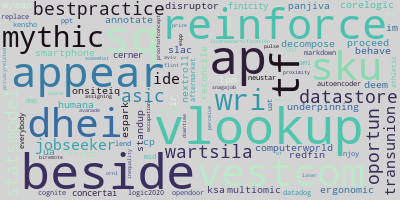
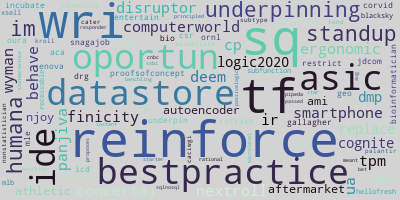
finished parsing monograms down to mdg

diff --git a/nlp_main.py b/nlp_main.py
@@ -233,7 +233,12 @@ def clean_for_nlp(series_of_interest):
     
     # convert parsed series to a list
     text = ''.join(str(series_of_interest.tolist()))
-
+    
+    # normalize, split and lowercase the parsed text
+    print('Normalizing, splitting and lowercasing...')
+    text = (unicodedata.normalize('NFKD', text).encode('ascii', 'ignore').decode('utf-8', 'ignore').lower())
+    words = re.sub(r'[^\w\s]', '', text).split()
+    
     # add additional stopwords to nltk default stopword list
     additional_stopwords = sorted(list(set(['14042', '3rd', '401k', '50', '500', 'a16z', 'able', 'accepted',
                                             'access', 'accommodation', 'accomodation', 'account', 'across',
@@ -1158,24 +1163,47 @@ def clean_for_nlp(series_of_interest):
                                             'configurable', 'irca', 'boomi', 'multiomics', 'decisiveness', 'microbial', 'flawless',
                                             'figuring', 'cabinet', 'spatiotemporal', 'essence', 'opentext', 'gay', '33',
                                             'microbiology', 'flair', 'simpler', 'dependability', 'autodesk', 'hm', 'occurred',
-                                            'httpssfgovorgolsesitesdefaultfilesfco20poster2020pdf', 'automaker', 'macos']))) + ds_skills_combined
+                                            'httpssfgovorgolsesitesdefaultfilesfco20poster2020pdf', 'automaker', 'macos',
+                                            'charles', '52', 'bandwidth', 'quote', 'struggle', 'starter', 'aug', 'accompanying',
+                                            'wyman', 'kroll', 'characterizing', 'entertain', 'unvaccinated', 'principled', 'bet',
+                                            'pipeda', 'upholding', 'humana', 'cnbc', 'domino', 'clinically', 'passed', 'preventive',
+                                            'apex', 'stateprovince', 'procter', 'eleven', 'projectstasks', 'genius', 'macrolevel',
+                                            'diplomaged', 'creatingrunning', 'productionalized', '13000000', 'purposebuilt', 'tb',
+                                            'crains', 'httpswwwspgbenefitessentialscomnewhires', 'aftermarket', '2002',
+                                            'elimination', 'itar', '1961', 'technologyfocused', 'munich', '80000', 'releasing',
+                                            'meant', 'reform', 'instant', 'rational', 'reflecting', 'grew', 'paul', 'responder',
+                                            'hustle', 'statisticallyminded', 'ibmwhat', 'productsservices', 'vr', 'westlake',
+                                            'deployable', 'nbcuniversals', 'athome', 'tlf', 'diligent', 'unavailable',
+                                            'businessolver', 'bio', 'av', 'proposes', 'played', 'postdegree', 'autoscaling',
+                                            'ordering', 'asic', 'logic2020', 'conveniently', 'compromising', 'hyderabad',
+                                            'httpwd5myworkdaycomryderdtask14223htmld', 'iaa', 'snagajob', 'nonstatisticians',
+                                            'disco', 'higherlevel', 'rsus', 'menu', 'mle', 'integrationcontinuous', 'tenant',
+                                            'tend', 'policymakers', 'wastewater', 'assessed', 'sankyo', 'jean', 'authoritative',
+                                            'crossdepartmental', 'garage', 'slow', 'reflective', 'yearround', 'safetysensitive',
+                                            'varsity', 'icertis', 'camp', 'objectively', 'impairment', 'injection', 'ob', 
+                                            'domicile', 'gapp', 'iq', 'detailing', 'cmc', 'ccar', 'preventative', 'nordisk',
+                                            'settlement', 'mx', 'bird', 'advertisement', 'tf', 'eurofins', 'whichever', '263892',
+                                            'coppa', 'amyris', 'labcorp', 'justification', 'virology', 'sisense', 'nextroll',
+                                            'njoy', 'educationtraining', 'cref', 'experiential', 'oltp', 'menlo', 'reaction',
+                                            'organizationally', 'gradeslevels', 'protectionrelated', 'caching', 'mentored',
+                                            '75year', 'geo', 'oura', 'eeocompliancespglobalcom', 'forrester', 'arrow', 'accrual',
+                                            'multilevel', 'gb', 'secrecy', 'drg', 'eighty', 'differentiator', 'acquires', 'avp',
+                                            'ipsos', 'daunting', 'republic', 'carfax', 'outpatient', 'highspeed', 'xsell',
+                                            '74000', 'lowest', 'cashierless', 'highscale', 'finicity', 'retrain', 'mdg', 
+                                            'stewarding', 'cism', 'lsi', 'blacksky', '131', 'kelly', 'reset', 'george', 'autoimmune', 'hcpcs', 'reuters', 'neurodegenerative', 'coolest', 'salient', 'daiichi', 'employerveteransdisabled', 'lateral', 'hobby', 'shehe', 'wired', 'sigint', 'freeportmcmoran', 'sia', '13000', 'digest', 'alexis', 'sarah', 'attentiontodetail', 'achiever', 'fundbox', 'coupa', '707', 'versatility', 'aitecharch', 'bmo', 'bmw', 'bdm', 'ap', 'encountered', 'iat', 'computerelectrical', 'hrbp', 'aon', 'ministry', 'foundry', 'dea', 'marijuana', 'industrybased', 'optimus', 'digitalization', 'gastroenterology', '1year', 'recorded', 'shelf', 'rosslyn', 'graduatelevel', 'fieldbased', 'mississippi', 'thrill', 'weighing', 'bigtable', 'reusability', 'sabbatical', 'cat', 'dry', 'brooklyn', '110000', 'insured', 'elicitation', 'metrology', 'appropriateness', 'impromptu', 'recipe', 'rei', 'manulife', 'dcri', 'ironic', 'itatms', 'inaccuracy', 'directhire', 'steering', 'branded', 'pd', 'stride', 'acorn', 'valuedriven', 'modelsmethods', 'merrick', 'perkins', 'activision', 'kleiner', 'qgis', 'reconstruction', 'tredence', 'staple', 'gamble', 'abbvies', 'uniform', 'kaiser', 'accessory', 'imagining', 'immunization', 'aca', 'golden', 'switzerland', 'logically', 'replace', 'ledger', 'responded', 'qualifies', 'medidatas', 'stormsamza', '1b', 'ornl', 'acquirer', 'tpm', 'durham', 'evergrowing', 'businessoriented', 'bestpractices', 'shrinkage', 'avaya', 'interdepartmental', 'preeminent', 'messenger', 'wing', 'drilling', 'jackson', 'uas', 'learningdata', 'deciding', 'regarded', 'innovates', 'fbi', 'nd', 'ctos', 'gan', 'replicable', 'trackrecord', 'clery', 'quite', 'inscom', 'passenger', 'sla', 'symbol', 'reinforces', 'systemlevel', 'constructively', 'yesterday', 'rose', '1973', 'selfawareness', 'inferencing', 'okay', '24x7', 'conditioning', 'nexus', 'normalizing', 'liaising', 'vista', 'mouse', 'predictability', 'problemsolve', 'underperforming', 'leaving', 'trouble', 'stateofart', 'mirror', 'controlling', 'sweden', 'intimate', 'alexion', 'circlers', 'farming', 'skillsqualifications', 'edr', 'lighting', 'archival', 'designthinking', 'celonis', 'everexpanding', 'ftes', 'indigenous', 'analyzer', 'mentalphysical', 'dubai', 'fruition', 'glms', 'manually', 'bsmsphd', 'mandating', 'cli', 'hazmat', 'ln', 'handled', 'negligible', 'underpinning', 'underpinned', 'sf15', 'justify', 'chegg', 'conferencing', 'honorable']))) + ds_skills_combined
     
-    stop_words = nltk.corpus.stopwords.words('english') + additional_stopwords #+ ds_cred_terms + ds_prof_skill_terms + ds_soft_skill_terms + ds_tech_skill_terms
-    
-    # normalize, split and lowercase the parsed text
-    print('Normalizing, splitting and lowercasing...')
-    text = (unicodedata.normalize('NFKD', text).encode('ascii', 'ignore').decode('utf-8', 'ignore').lower())
-    words = re.sub(r'[^\w\s]', '', text).split()
-    
+    # create stop_words object and toggle on/off additional stop words
+    stop_words = nltk.corpus.stopwords.words('english') + additional_stopwords + ds_cred_terms + ds_prof_skill_terms + ds_soft_skill_terms + ds_tech_skill_terms
+
     # initialize lemmatizer and execute lemmatization; this is the sloest part of the processing
     print('Lemmatizing...')
     wnl = nltk.stem.WordNetLemmatizer()
     terms_for_nlp = [wnl.lemmatize(word) for word in words if word not in stop_words]
-    
+ 
     # execute post-lemmatization stopword removal to drop unnecessary lemma
     print('Post-lemmatization stopword removal...')
     terms_for_nlp = [x for x in terms_for_nlp if x not in additional_stopwords]
-    
+
     return terms_for_nlp
 
 
@@ -1374,9 +1402,7 @@ def visualize_word_clouds(terms_for_nlp):
     
     # save the masked cloud to a png
     word_cloud_masked.to_file(f'word_clouds/word_cloud_masked_{series_of_interest.name}.png')
-    
-    print(f'\Processing Time to Here: {(time.time() - start_time) / 60:.2f} minutes')
-    
+        
   
 
 ####### !!!!!!!! START HERE NEXT  #########
@@ -1454,6 +1480,7 @@ ds_cred_terms = ['ability',
                  'aerospace',
                  'analyst',
                  'analytics',
+                 'analyticsrelated',
                  'associate',
                  'bachelor',
                  'bachelorsmasters',
@@ -1582,6 +1609,7 @@ ds_cred_terms = ['ability',
                  'social',
                  'software',
                  'solid', 
+                 'ssbi',
                  'statistic',
                  'statisticalmathematical',
                  'statistics',
@@ -1622,6 +1650,7 @@ ds_tech_skill_terms = ['ab',
                        'aiml',
                        'aimlnlp',
                        'aimachine',
+                       'aipytorch',
                        'airflow',
                        'advanced',
                        'algebra',
@@ -1630,6 +1659,8 @@ ds_tech_skill_terms = ['ab',
                        'algorithmic',
                        'alteryx',
                        'amazon',
+                       'amis',
+                       'anaconda',
                      'analysis',
                      'analytical',
                      'analytic',
@@ -1664,6 +1695,7 @@ ds_tech_skill_terms = ['ab',
                      'athena',
                      'augmentation',
                      'aurora',
+                     'autoencoders',
                      'automated',
                      'automates',
                      'automation', 
@@ -1739,6 +1771,7 @@ ds_tech_skill_terms = ['ab',
                      'confluence',
                      'constraint',
                      'container',
+                     'containerbased',
                      'containerization',
                      'containerized',
                      'continuous',
@@ -1765,6 +1798,7 @@ ds_tech_skill_terms = ['ab',
                      'd3js',
                      'dash',
                      'dashboard',
+                     'reportsdashboards',
                      'dashboarding',
                      'dask',
                      'data',
@@ -1780,6 +1814,8 @@ ds_tech_skill_terms = ['ab',
                      'datasets',
                      'database',
                      'databased',
+                     'datamining',
+                     'datastores',
                      'dax',
                      'debug',
                      'debugging',
@@ -2005,6 +2041,7 @@ ds_tech_skill_terms = ['ab',
                      'looker',
                      'loss',
                      'lstm',
+                     'lstms',
                      'ltv',
                      'luigi',
                      'machine',
@@ -2126,6 +2163,7 @@ ds_tech_skill_terms = ['ab',
                      'orchestrating',
                      'outlier',
                      'paas',
+                     'palantir',
                      'panda', 
                      'parallel',
                      'parametric',
@@ -2173,6 +2211,7 @@ ds_tech_skill_terms = ['ab',
                      'programming', 
                      'programmingscripting',
                      'pso',
+                     'ipython',
                      'python',
                      'pythonbased',
                      'pythonr',
@@ -2209,6 +2248,7 @@ ds_tech_skill_terms = ['ab',
                      'redshift', 
                      'reduction',
                      'regression',
+                     'regularization',
                      'reinforcement',
                      'rekognition',
                      'relational',
@@ -2279,6 +2319,7 @@ ds_tech_skill_terms = ['ab',
                      'semantics', 
                      'semistructured',
                      'semisupervised',
+                     'structuredunstructured',
                      'supervisedunsupervised',
                      'sensing',
                      'sensor',
@@ -2300,12 +2341,14 @@ ds_tech_skill_terms = ['ab',
                      'snowflake',
                      'software',
                      'solr',
+                     'sorcero',
                      'source',
                      'sp',
                      'spacy',
                      'spark',
                      'sparkcognition',
                      'sparkml',
+                     'sparksql',
                      'spatial',
                      'speech', 
                      'speechlanguage',
@@ -2316,9 +2359,11 @@ ds_tech_skill_terms = ['ab',
                      'sprint',
                      'spss',
                      'sql',
+                     'sqlnosql',
                      'sqlpython',
                      'slq',
                      'sqoop',
+                     'sqs',
                      'ssis',
                      'stack',
                      'stat',
@@ -2411,6 +2456,7 @@ ds_tech_skill_terms = ['ab',
                      'visualizing',
                      'visualizingpresenting',
                      'visuals',
+                     'vlookup',
                      'vlookups',
                      'vmware',
                      'volume',
@@ -2692,6 +2738,7 @@ ds_soft_skill_terms = ['ad',
                      'write',
                      'writing',
                      'written',
+                     'writtenverbal',
                      'word',
                      'work',
                      'workflow',
@@ -2891,6 +2938,7 @@ ds_prof_skill_terms = ['ability',
                        'tell', 
                        'think', 
                        'thought',
+                       'thoughtleadership',
                        'track',
                        'transform',
                        'transformation',
